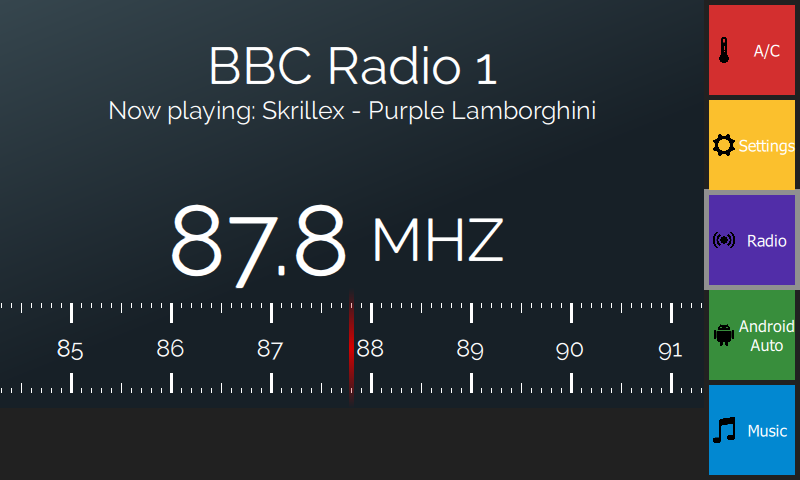
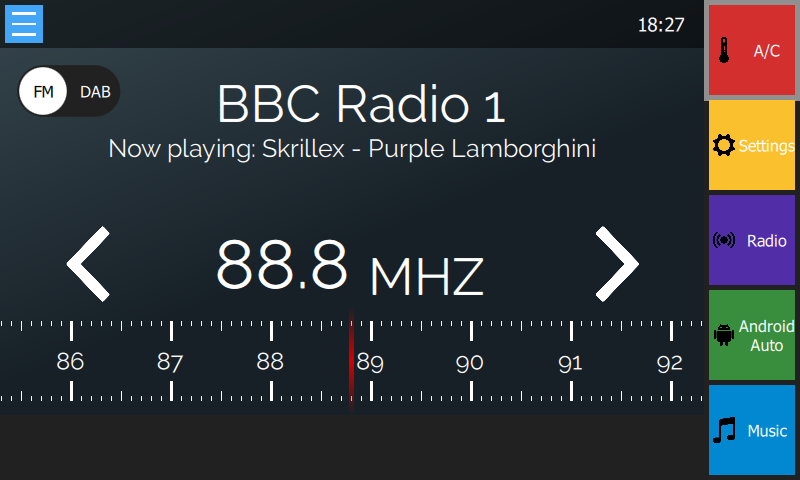
Updated screenshots

diff --git a/README.md b/README.md
@@ -28,3 +28,5 @@ Below you can see some screenshots of the current state of the GUI.
 ![A/C temerature control view](https://raw.githubusercontent.com/viktorgino/headunit-gui/master/screenshots/2.png)
 
 ![Radio view](https://raw.githubusercontent.com/viktorgino/headunit-gui/master/screenshots/3.png)
+
+![Radio stations list drawer](https://raw.githubusercontent.com/viktorgino/headunit-gui/master/screenshots/4.png)
